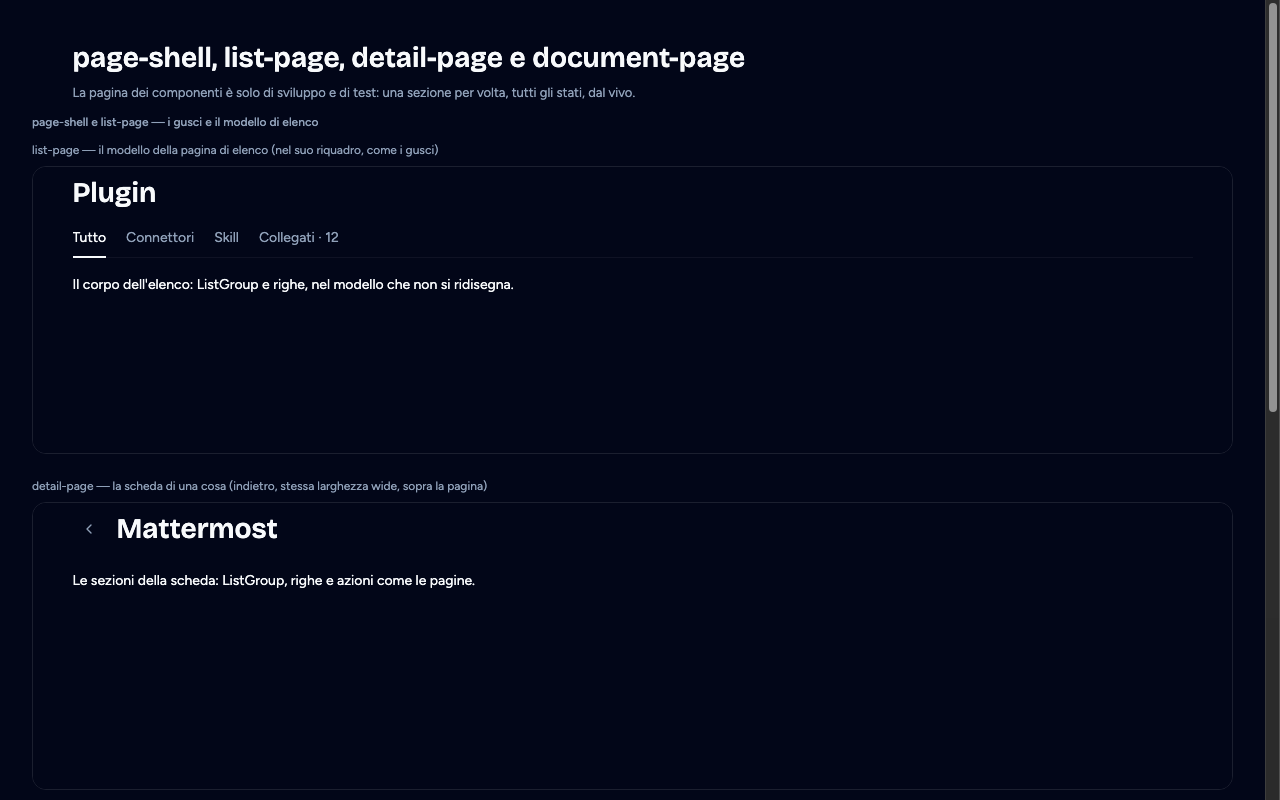
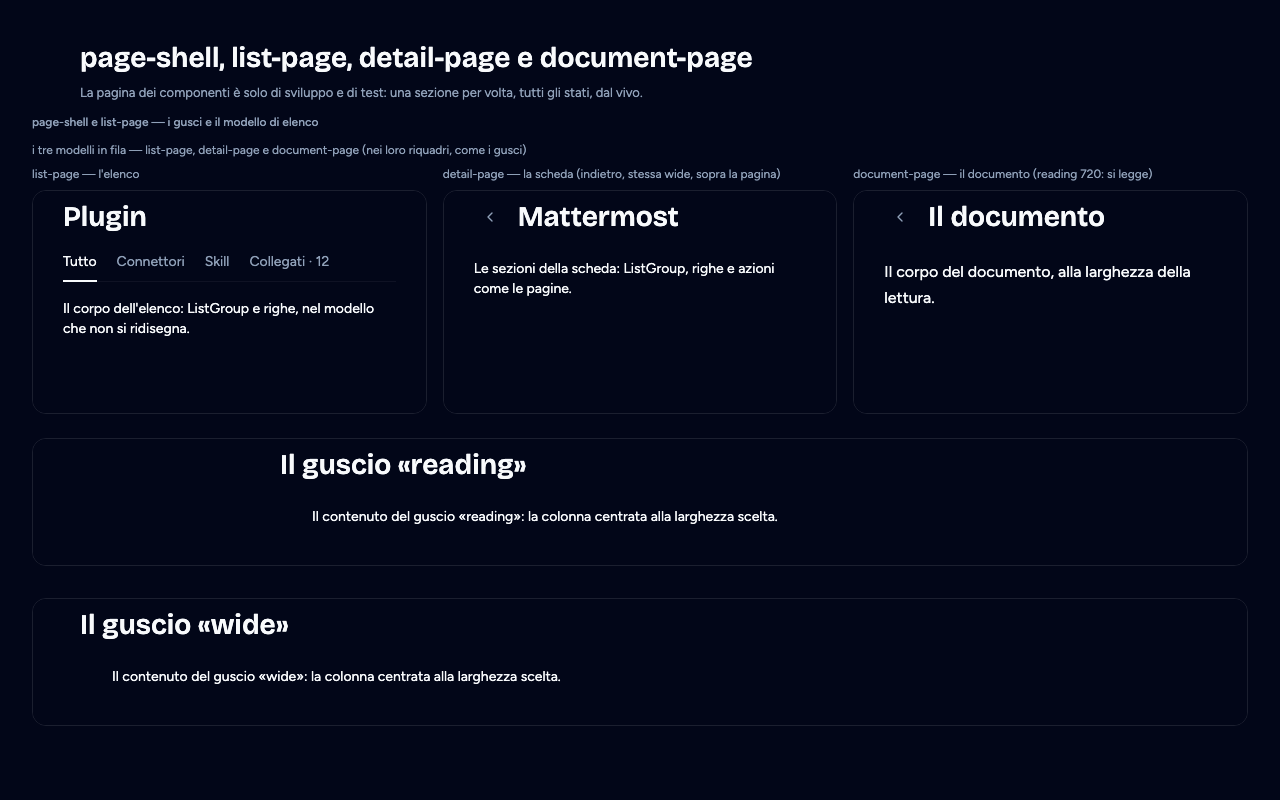
Chiusura, correzioni della prima corsa di fatto.mjs: (1) la sezione gusci della pagina dei componenti usciva dal viewport (bottom 1542 su 800) — le tre demo dei modelli (ListPage, DetailPage, DocumentPage) ora stanno IN FILA orizzontale nei loro riquadri da 56, i due gusci da 32: 118 scene, 116 ugua

diff --git a/src/renderer/src/galleria/componenti.tsx b/src/renderer/src/galleria/componenti.tsx
@@ -523,41 +523,46 @@ const Sezione = ({ id }: { id: IdSezione }) => {
       {id === 'gusci' && (
         <Section title="page-shell e list-page — i gusci e il modello di elenco" testId="galleria-section-shell">
           <div className="mb-2">
-            <Etichetta>list-page — il modello della pagina di elenco (nel suo riquadro, come i gusci)</Etichetta>
-            <div className="relative h-72 overflow-hidden rounded-surface border border-border">
-              <ListPage
-                titolo="Plugin"
-                testId="galleria-list-page"
-                schede={{ tabs: [['tutto', 'Tutto'], ['connettori', 'Connettori'], ['skill', 'Skill'], ['collegati', 'Collegati · 12']] as never, value: 'tutto', onChange: () => undefined }}
-                headName="componenti"
-                contentClassName="py-4"
-              >
-                <div className="text-body">Il corpo dell'elenco: ListGroup e righe, nel modello che non si ridisegna.</div>
-              </ListPage>
-            </div>
-          </div>
-          <div className="mb-2">
-            <Etichetta>detail-page — la scheda di una cosa (indietro, stessa larghezza wide, sopra la pagina)</Etichetta>
-            <div className="relative h-72 overflow-hidden rounded-surface border border-border">
-              <DetailPage
-                titolo="Mattermost" testId="galleria-detail-page" headName="componenti"
-                indietro={{ onClick: () => undefined, label: 'Torna ai plugin' }}
-                contentClassName="py-4"
-              >
-                <div className="text-body">Le sezioni della scheda: ListGroup, righe e azioni come le pagine.</div>
-              </DetailPage>
-            </div>
-          </div>
-          <div>
-            <Etichetta>document-page — il documento della Libreria (reading 720: si legge)</Etichetta>
-            <div className="relative h-72 overflow-hidden rounded-surface border border-border">
-              <DocumentPage
-                titolo="Il documento" testId="galleria-document-page" headName="componenti"
-                indietro={{ onClick: () => undefined, label: 'Torna alla Libreria' }}
-                contentClassName="py-4"
-              >
-                <div className="text-reading">Il corpo del documento, alla larghezza della lettura.</div>
-              </DocumentPage>
+            <Etichetta>i tre modelli in fila — list-page, detail-page e document-page (nei loro riquadri, come i gusci)</Etichetta>
+            <div className="flex items-start gap-4">
+              <div className="min-w-0 flex-1">
+                <Etichetta>list-page — l'elenco</Etichetta>
+                <div className="relative h-56 overflow-hidden rounded-surface border border-border">
+                  <ListPage
+                    titolo="Plugin"
+                    testId="galleria-list-page"
+                    schede={{ tabs: [['tutto', 'Tutto'], ['connettori', 'Connettori'], ['skill', 'Skill'], ['collegati', 'Collegati · 12']] as never, value: 'tutto', onChange: () => undefined }}
+                    headName="componenti"
+                    contentClassName="py-4"
+                  >
+                    <div className="text-body">Il corpo dell'elenco: ListGroup e righe, nel modello che non si ridisegna.</div>
+                  </ListPage>
+                </div>
+              </div>
+              <div className="min-w-0 flex-1">
+                <Etichetta>detail-page — la scheda (indietro, stessa wide, sopra la pagina)</Etichetta>
+                <div className="relative h-56 overflow-hidden rounded-surface border border-border">
+                  <DetailPage
+                    titolo="Mattermost" testId="galleria-detail-page" headName="componenti"
+                    indietro={{ onClick: () => undefined, label: 'Torna ai plugin' }}
+                    contentClassName="py-4"
+                  >
+                    <div className="text-body">Le sezioni della scheda: ListGroup, righe e azioni come le pagine.</div>
+                  </DetailPage>
+                </div>
+              </div>
+              <div className="min-w-0 flex-1">
+                <Etichetta>document-page — il documento (reading 720: si legge)</Etichetta>
+                <div className="relative h-56 overflow-hidden rounded-surface border border-border">
+                  <DocumentPage
+                    titolo="Il documento" testId="galleria-document-page" headName="componenti"
+                    indietro={{ onClick: () => undefined, label: 'Torna alla Libreria' }}
+                    contentClassName="py-4"
+                  >
+                    <div className="text-reading">Il corpo del documento, alla larghezza della lettura.</div>
+                  </DocumentPage>
+                </div>
+              </div>
             </div>
           </div>
           {/* G2: ogni guscio sta in un riquadro relative ad altezza FISSA con
@@ -565,7 +570,7 @@ const Sezione = ({ id }: { id: IdSezione }) => {
               l'ultimo guscio si stenderebbe su tutta la pagina (page-shell.tsx
               non si tocca) */}
           {(['reading', 'wide'] as PageWidth[]).map((w) => (
-            <div key={w} className="relative mb-4 h-40 overflow-hidden rounded-surface border border-border">
+            <div key={w} className="relative mb-4 h-32 overflow-hidden rounded-surface border border-border">
               <PageShell width={w} testId={`galleria-shell-${w}`} headName="componenti"
                 header={<PageHeader title={`Il guscio «${w}»`} testId={`galleria-shell-header-${w}`} />}
                 contentClassName="py-4">
